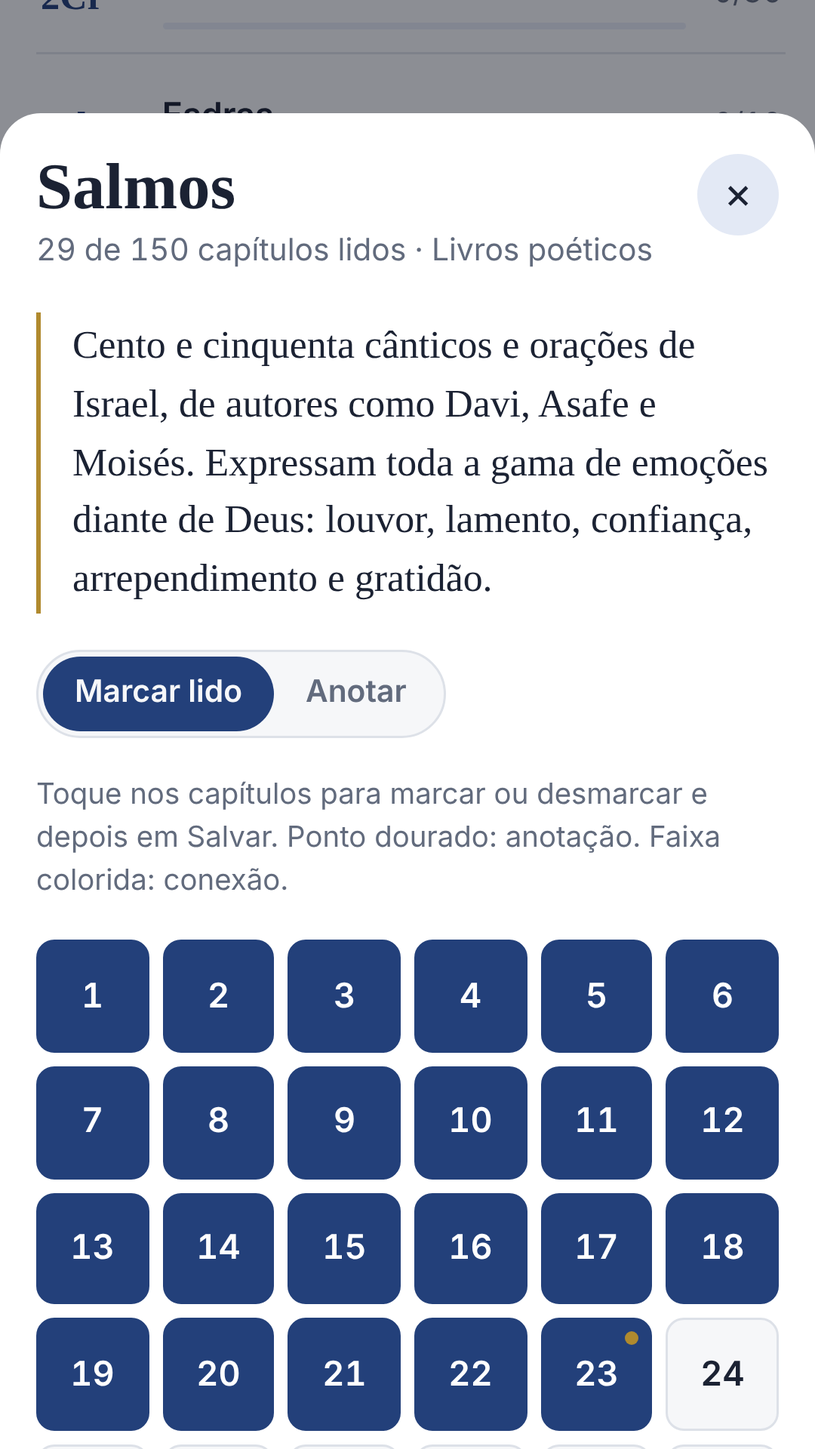
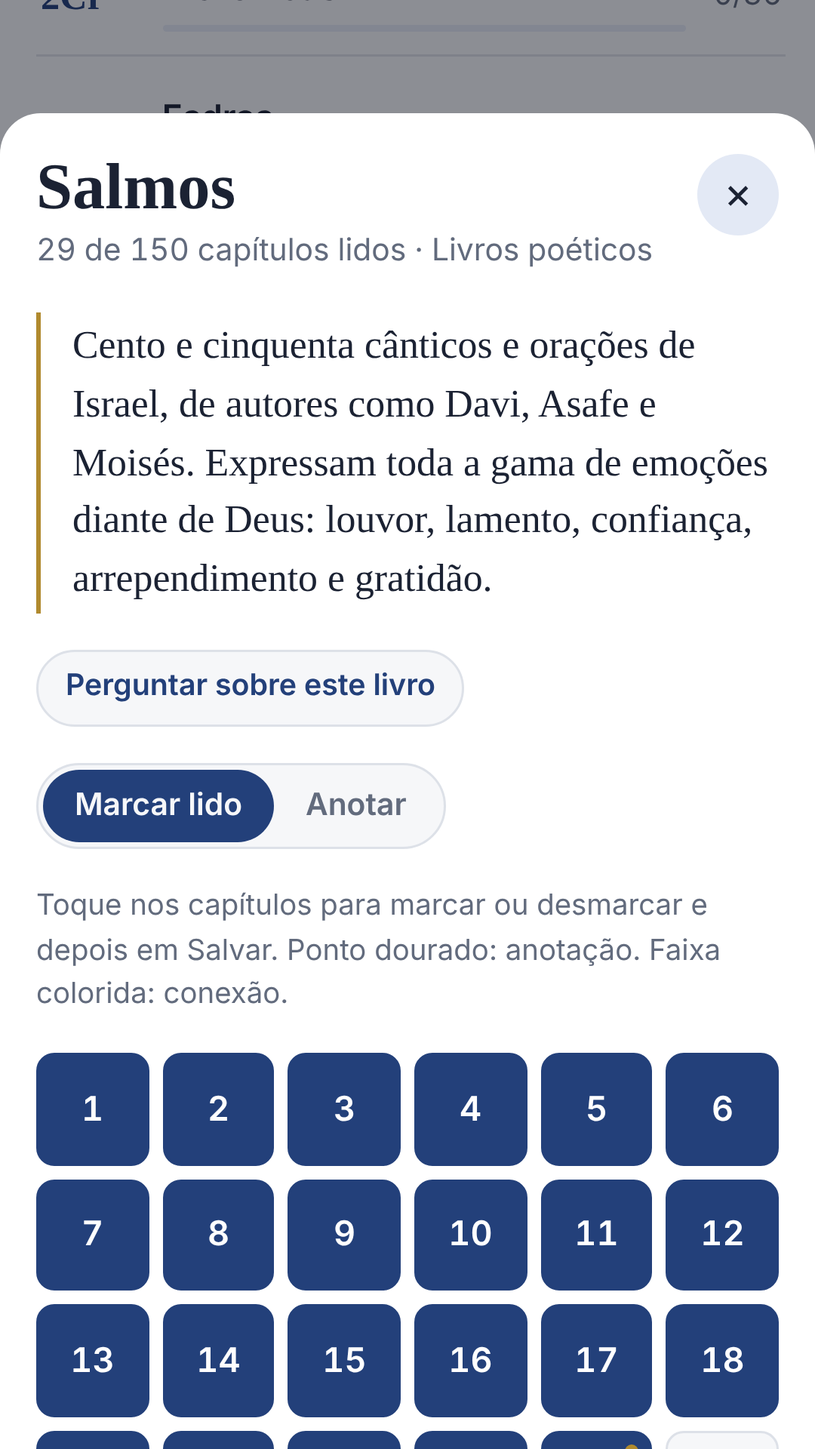
Transforma o chat em painel lateral
- painel desliza da direita no celular e fica fixo ao lado em telas largas
- botão Perguntar no topo e botão flutuante ao rolar a página
- voltar do Android e Esc fecham o painel; estado lembrado no computador
- capturas da loja atualizadas, com a tela de perguntas

Claude-Session: https://claude.ai/code/session_01VvamT29ETSLQX3xUBCzeSM

Changed region(s): [[0.0306, 0.4375, 0.9778, 1.0]]

diff --git a/index.html b/index.html
@@ -179,7 +179,6 @@ header { display: grid; gap: 6px; }
 .sr { position: absolute; width: 1px; height: 1px; overflow: hidden; clip: rect(0 0 0 0); white-space: nowrap; }
 .ask { justify-self: start; display: inline-flex; align-items: center; gap: 6px; color: var(--accent); }
 .ask .ic { width: 16px; height: 16px; }
-.chat { display: grid; gap: 12px; padding-top: 10px; }
 .chat-note { margin: 0; font-size: .8rem; color: var(--muted); background: var(--surface); border: 1px solid var(--line); border-radius: 10px; padding: 10px 12px; }
 .chat-log { display: grid; gap: 12px; }
 .chat-empty { display: grid; justify-items: center; text-align: center; gap: 10px; padding: 14px 4px 4px; color: var(--muted); }
@@ -207,12 +206,42 @@ header { display: grid; gap: 6px; }
 .report { display: grid; gap: 8px; border: 1px dashed var(--line); border-radius: 10px; padding: 10px; }
 .report select { border: 1px solid var(--line); border-radius: 8px; padding: 8px; background: var(--surface); color: var(--ink); font: inherit; }
 .chat-ctx { display: flex; justify-content: space-between; align-items: center; gap: 10px; font-size: .82rem; color: var(--muted); background: var(--accent-soft); border-radius: 8px; padding: 6px 10px; }
-.chat-form { display: grid; grid-template-columns: 1fr auto; gap: 8px; align-items: end; position: sticky; bottom: 0; background: var(--bg); padding: 8px 0 calc(8px + env(safe-area-inset-bottom, 0px)); }
+.chat-form { display: grid; grid-template-columns: 1fr auto; gap: 8px; align-items: end; }
 .chat-form textarea { width: 100%; box-sizing: border-box; resize: none; min-height: 48px; max-height: 160px; border: 1px solid var(--line); border-radius: 12px; padding: 12px; background: var(--surface); color: var(--ink); font: inherit; line-height: 1.4; }
 .chat-form textarea:focus { outline: 2px solid var(--accent); outline-offset: 0; border-color: transparent; }
 .chat-form .btn { height: 48px; }
 .chat-form .btn:disabled { opacity: .5; }
 .chat-foot { display: flex; justify-content: space-between; align-items: center; gap: 10px; font-size: .78rem; color: var(--muted); min-height: 1.2em; }
+/* Painel lateral do chat: gaveta por cima no celular, fixo ao lado em telas largas */
+.wrap { padding-bottom: 96px; }
+.chat-fab { position: fixed; right: calc(16px + env(safe-area-inset-right, 0px)); bottom: calc(16px + env(safe-area-inset-bottom, 0px)); z-index: 15; display: inline-flex; align-items: center; gap: 8px; background: var(--accent); color: var(--bg); border: 0; border-radius: 999px; padding: 12px 20px 12px 16px; font-weight: 700; font-size: .95rem; box-shadow: 0 8px 22px rgb(10 14 24 / .28); }
+.chat-fab .ic { width: 22px; height: 22px; }
+html.chat-open .chat-fab, .chat-fab.away { display: none; }
+.chat-top { display: inline-flex; align-items: center; gap: 6px; border: 1px solid var(--accent); background: var(--surface); color: var(--accent); border-radius: 999px; padding: 6px 14px 6px 10px; font-size: .82rem; font-weight: 700; }
+.chat-top .ic { width: 18px; height: 18px; }
+@media (max-width: 599px) {
+  .chat-fab { width: 56px; height: 56px; padding: 0; justify-content: center; }
+  .chat-fab span { display: none; }
+  .chat-fab .ic { width: 26px; height: 26px; }
+}
+.chat-scrim { position: fixed; inset: 0; background: rgb(10 14 24 / .45); z-index: 29; }
+.chat-panel { position: fixed; top: 0; right: 0; bottom: 0; width: 100%; max-width: 440px; z-index: 30; display: flex; flex-direction: column; background: var(--bg); border-left: 1px solid var(--line); box-shadow: -14px 0 36px rgb(10 14 24 / .2); transform: translateX(100%); visibility: hidden; transition: transform .26s ease, visibility 0s linear .26s; padding-top: env(safe-area-inset-top, 0px); padding-right: env(safe-area-inset-right, 0px); }
+html.chat-open .chat-panel { transform: none; visibility: visible; transition: transform .26s ease, visibility 0s; }
+.chat-head { display: flex; justify-content: space-between; align-items: center; gap: 12px; padding: 12px 16px; border-bottom: 1px solid var(--line); background: var(--surface); }
+.chat-title { display: flex; align-items: center; gap: 10px; min-width: 0; }
+.chat-title .ic { width: 30px; height: 30px; color: var(--gilt); stroke-width: 1.4; }
+.chat-title h2 { font-size: 1.35rem; line-height: 1.1; }
+.chat-title p { margin: 2px 0 0; font-size: .78rem; color: var(--muted); }
+.chat-body { flex: 1; min-height: 0; overflow-y: auto; overscroll-behavior: contain; padding: 14px 16px; display: grid; align-content: start; gap: 12px; }
+.chat-dock { display: grid; gap: 8px; border-top: 1px solid var(--line); background: var(--surface); padding: 10px 16px calc(10px + env(safe-area-inset-bottom, 0px)); }
+html.chat-lock, html.chat-lock body { overflow: hidden; }
+@media (min-width: 1100px) {
+  html.chat-open body { padding-right: 440px; }
+  html.chat-open .chat-panel { box-shadow: none; }
+  html.chat-open .sheet, html.chat-open .sheet-bg { right: 440px; }
+  .chat-scrim { display: none !important; }
+}
+@media (prefers-reduced-motion: reduce) { .chat-panel, html.chat-open .chat-panel { transition: none; } }
 .notes { display: grid; gap: 0; }
 .notes h4 { margin: 0; font-size: .74rem; letter-spacing: .12em; text-transform: uppercase; color: var(--muted); padding: 6px 0; }
 .note-item { display: grid; gap: 3px; text-align: left; width: 100%; background: none; border: 0; border-bottom: 1px solid var(--line); padding: 10px 2px; }
@@ -240,6 +269,7 @@ header { display: grid; gap: 6px; }
         <button type="button" data-t="light" id="thLight">Claro</button>
         <button type="button" data-t="dark" id="thDark">Escuro</button>
       </div>
+      <button class="chat-top" id="chatTop" type="button" aria-controls="chatPanel"><span>Perguntar</span></button>
     </div>
     <h1>Diário de Leitura Bíblica</h1>
     <div class="status" id="status">Progresso salvo neste celular</div>
@@ -277,7 +307,6 @@ header { display: grid; gap: 6px; }
     <button role="tab" id="tabAT" aria-selected="true" type="button">Antigo Testamento</button>
     <button role="tab" id="tabNT" aria-selected="false" type="button">Novo Testamento</button>
     <button role="tab" id="tabNotes" aria-selected="false" type="button">Anotações</button>
-    <button role="tab" id="tabChat" aria-selected="false" type="button">Perguntas</button>
   </nav>
   <div class="order" id="orderBar">
     <span>Ordem dos livros</span>
@@ -288,17 +317,6 @@ header { display: grid; gap: 6px; }
   </div>
   <p class="hint" id="orderNote" hidden>Ordem cronológica aproximada, pela época dos acontecimentos e da escrita. As datas de alguns livros são debatidas. O botão "Próximo capítulo" passa a seguir esta ordem.</p>
   <div id="books" style="display:grid;gap:8px"></div>
-  <section class="chat" id="chat" hidden aria-label="Perguntas sobre a Bíblia">
-    <p class="chat-note">Respostas geradas por inteligência artificial, com base na teologia evangélica. Podem conter erros: confira sempre na Bíblia e converse com seu pastor.</p>
-    <div class="chat-log" id="chatLog" aria-live="polite"></div>
-    <div class="chat-ctx" id="chatCtx" hidden><span id="chatCtxTxt"></span><button class="link-x" id="chatCtxX" type="button">Remover</button></div>
-    <form class="chat-form" id="chatForm" novalidate>
-      <label for="chatInput" class="sr">Sua pergunta</label>
-      <textarea id="chatInput" rows="2" maxlength="1500" placeholder="Escreva sua dúvida sobre a Bíblia ou a fé cristã"></textarea>
-      <button class="btn" id="chatSend" type="submit">Enviar</button>
-    </form>
-    <div class="chat-foot"><span id="chatInfo"></span><button class="link-x" id="chatClear" type="button" hidden>Limpar conversa</button></div>
-  </section>
   <div class="ornament" aria-hidden="true"><i></i><svg class="ic" viewBox="0 0 24 24" aria-hidden="true"><path d="M12 2.5v19 M6.5 8h11"/></svg><i></i></div>
   <section class="backup">
     <h3>Backup</h3>
@@ -312,6 +330,27 @@ header { display: grid; gap: 6px; }
   </section>
 </div>
 
+<button class="chat-fab" id="chatFab" type="button" aria-controls="chatPanel" aria-expanded="false" aria-label="Perguntas sobre a Bíblia" title="Perguntas sobre a Bíblia"><span>Perguntar</span></button>
+<div class="chat-scrim" id="chatScrim" hidden></div>
+<aside class="chat-panel" id="chatPanel" aria-label="Perguntas sobre a Bíblia" aria-hidden="true" inert>
+  <header class="chat-head">
+    <div class="chat-title" id="chatTitle"><div><h2 id="chatH">Perguntas</h2><p>Dúvidas sobre a Bíblia e a fé cristã</p></div></div>
+    <button class="close" id="chatClose" type="button" aria-label="Fechar perguntas">×</button>
+  </header>
+  <div class="chat-body" id="chatBody">
+    <p class="chat-note">Respostas geradas por inteligência artificial, com base na teologia evangélica. Podem conter erros: confira sempre na Bíblia e converse com seu pastor.</p>
+    <div class="chat-log" id="chatLog" aria-live="polite"></div>
+  </div>
+  <div class="chat-dock">
+    <div class="chat-ctx" id="chatCtx" hidden><span id="chatCtxTxt"></span><button class="link-x" id="chatCtxX" type="button">Remover</button></div>
+    <form class="chat-form" id="chatForm" novalidate>
+      <label for="chatInput" class="sr">Sua pergunta</label>
+      <textarea id="chatInput" rows="2" maxlength="1500" placeholder="Escreva sua dúvida sobre a Bíblia ou a fé cristã"></textarea>
+      <button class="btn" id="chatSend" type="submit">Enviar</button>
+    </form>
+    <div class="chat-foot"><span id="chatInfo"></span><button class="link-x" id="chatClear" type="button" hidden>Limpar conversa</button></div>
+  </div>
+</aside>
 <div class="sheet-bg" id="sheetBg" hidden></div>
 <div class="sheet" id="sheet" role="dialog" aria-modal="true" aria-labelledby="sheetTitle" hidden>
   <div class="sheet-in">
@@ -523,8 +562,7 @@ function render(){
 
   // livros
   const box = document.getElementById("books"); box.innerHTML = "";
-  if (tab === "CHAT") {}
-  else if (tab === "NOTAS") renderAllNotes(box);
+  if (tab === "NOTAS") renderAllNotes(box);
   else for (const [g, ids] of sections(tab)) {
     const sec = document.createElement("div"); sec.className = "section";
     const h = document.createElement("h3"); h.innerHTML = icon(SECTION_ICON[g] || "cross"); h.append(g); sec.appendChild(h);
@@ -544,11 +582,8 @@ function render(){
   document.getElementById("tabAT").setAttribute("aria-selected", tab === "AT");
   document.getElementById("tabNT").setAttribute("aria-selected", tab === "NT");
   document.getElementById("tabNotes").setAttribute("aria-selected", tab === "NOTAS");
-  document.getElementById("tabChat").setAttribute("aria-selected", tab === "CHAT");
-  document.getElementById("orderBar").hidden = tab === "NOTAS" || tab === "CHAT";
-  document.getElementById("orderNote").hidden = tab === "NOTAS" || tab === "CHAT" || order !== "chrono";
-  document.getElementById("books").hidden = tab === "CHAT";
-  document.getElementById("chat").hidden = tab !== "CHAT";
+  document.getElementById("orderBar").hidden = tab === "NOTAS";
+  document.getElementById("orderNote").hidden = tab === "NOTAS" || order !== "chrono";
   document.getElementById("ordBible").setAttribute("aria-pressed", order === "bible");
   document.getElementById("ordChrono").setAttribute("aria-pressed", order === "chrono");
   if (openId) renderSheet();
@@ -752,7 +787,11 @@ function closeSheet(){ if (guardDraft()) return; flushNote(); openId = null; sel
 const sheet = document.getElementById("sheet"), sheetBg = document.getElementById("sheetBg");
 document.getElementById("closeBtn").onclick = closeSheet;
 sheetBg.onclick = closeSheet;
-document.addEventListener("keydown", e => { if (e.key === "Escape" && openId) closeSheet(); });
+document.addEventListener("keydown", e => {
+  if (e.key !== "Escape") return;
+  if (typeof chatOpen !== "undefined" && chatOpen && !isDocked()) closeChat();
+  else if (openId) closeSheet();
+});
 document.getElementById("allBtn").onclick = () => setDraft(new Set(Array.from({ length: BY[openId].ch }, (_, i) => i + 1)));
 document.getElementById("clearBtn").onclick = () => setDraft(new Set());
 document.getElementById("saveBtn").onclick = saveDraft;
@@ -779,7 +818,6 @@ const setOrder = o => { order = o; try { localStorage.setItem("leitura-biblica-o
 document.getElementById("ordBible").onclick = () => setOrder("bible");
 document.getElementById("ordChrono").onclick = () => setOrder("chrono");
 document.getElementById("tabNotes").onclick = () => { tab = "NOTAS"; render(); };
-document.getElementById("tabChat").onclick = () => { tab = "CHAT"; render(); renderChat(); };
 
 // ===== Perguntas (chat com IA) =====
 // Endereço do servidor do chat (Cloudflare Worker). Vazio = chat ainda não ligado.
@@ -860,7 +898,7 @@ function reportForm(i){
   };
   return f;
 }
-function scrollChatEnd(){ const f = document.getElementById("chatForm"); f.scrollIntoView({ block: "end", behavior: matchMedia("(prefers-reduced-motion: reduce)").matches ? "auto" : "smooth" }); }
+function scrollChatEnd(){ const b = document.getElementById("chatBody"); b.scrollTo({ top: b.scrollHeight, behavior: matchMedia("(prefers-reduced-motion: reduce)").matches ? "auto" : "smooth" }); }
 async function askAI(){
   if (!CHAT_URL) { chatErr = { msg: "O chat ainda não foi ligado ao servidor. Assim que for configurado, as respostas aparecem aqui.", retry: false }; renderChat(); return; }
   if (!navigator.onLine) { chatErr = { msg: "Sem internet. As perguntas precisam de conexão para serem respondidas.", retry: true }; renderChat(); return; }
@@ -891,11 +929,58 @@ document.getElementById("chatCtxX").onclick = () => { chat.ctx = ""; saveChat();
 document.getElementById("askBook").onclick = () => {
   const b = BY[openId]; if (!b) return;
   if (guardDraft()) return;
-  closeSheet(); chat.ctx = `o livro de ${b.name}`; saveChat();
-  tab = "CHAT"; render(); renderChat();
+  if (!isDocked()) closeSheet();
+  chat.ctx = `o livro de ${b.name}`; saveChat();
+  openChat(false);
   const inp = document.getElementById("chatInput"); inp.value = `Qual é a mensagem principal de ${b.name} e como ela aponta para Cristo?`; inp.focus();
-  document.getElementById("chatForm").scrollIntoView({ block: "end" });
 };
+
+// abrir e fechar o painel lateral
+const PANEL_KEY = "leitura-biblica-chat-painel";
+const dockMq = matchMedia("(min-width: 1100px)");
+const isDocked = () => dockMq.matches;
+let chatOpen = false;
+ICONS.chat = "M4.5 4.5h15a1.5 1.5 0 0 1 1.5 1.5v9a1.5 1.5 0 0 1-1.5 1.5H10l-4.5 3.5V16.5h-1A1.5 1.5 0 0 1 3 15V6a1.5 1.5 0 0 1 1.5-1.5z M12 7v7 M9.5 9.5h5";
+document.getElementById("chatFab").insertAdjacentHTML("afterbegin", icon("chat"));
+document.getElementById("chatTop").insertAdjacentHTML("afterbegin", icon("chat"));
+document.getElementById("chatTop").onclick = () => openChat();
+// o botão flutuante só aparece quando o botão do topo sai da tela
+(() => {
+  const fab = document.getElementById("chatFab");
+  fab.classList.add("away");
+  if (!("IntersectionObserver" in window)) { fab.classList.remove("away"); return; }
+  new IntersectionObserver(([e]) => fab.classList.toggle("away", e.isIntersecting)).observe(document.getElementById("chatTop"));
+})();
+document.getElementById("chatTitle").insertAdjacentHTML("afterbegin", icon("dove"));
+function setChatOpen(open){
+  chatOpen = open;
+  const root = document.documentElement, panel = document.getElementById("chatPanel");
+  root.classList.toggle("chat-open", open);
+  root.classList.toggle("chat-lock", open && !isDocked());
+  panel.inert = !open; panel.setAttribute("aria-hidden", String(!open));
+  document.getElementById("chatScrim").hidden = !(open && !isDocked());
+  document.getElementById("chatFab").setAttribute("aria-expanded", String(open));
+  if (isDocked()) { try { localStorage.setItem(PANEL_KEY, open ? "1" : "0"); } catch(e) {} }
+}
+function openChat(focus = true){
+  if (chatOpen) { renderChat(); return; }
+  setChatOpen(true); renderChat();
+  const b = document.getElementById("chatBody"); b.scrollTop = b.scrollHeight;
+  if (!isDocked()) { try { history.pushState({ chat: 1 }, ""); } catch(e) {} }
+  if (focus) (isDocked() ? document.getElementById("chatInput") : document.getElementById("chatClose")).focus();
+}
+function closeChat(){
+  if (!chatOpen) return;
+  setChatOpen(false);
+  if (history.state && history.state.chat) { try { history.back(); } catch(e) {} }
+  document.getElementById("chatFab").focus();
+}
+addEventListener("popstate", () => { if (chatOpen && !isDocked()) setChatOpen(false); });
+dockMq.addEventListener("change", () => { if (chatOpen) setChatOpen(true); });
+document.getElementById("chatFab").onclick = () => openChat();
+document.getElementById("chatClose").onclick = closeChat;
+document.getElementById("chatScrim").onclick = closeChat;
+try { if (isDocked() && localStorage.getItem(PANEL_KEY) === "1") openChat(false); } catch(e) {}
 document.getElementById("modeRead").onclick = () => { flushNote(); mode = "read"; renderSheet(); };
 document.getElementById("modeNote").onclick = () => { mode = "note"; renderSheet(); };
 document.getElementById("edText").addEventListener("input", () => {

diff --git a/privacidade.html b/privacidade.html
@@ -41,9 +41,9 @@ footer { margin-top: 40px; padding-top: 16px; border-top: 1px solid var(--line);
   <a class="back" href="./">← Voltar ao app</a>
   <p class="eyebrow">Leitura Bíblica</p>
   <h1>Política de Privacidade</h1>
-  <p class="updated">Última atualização: 21 de outubro de 2026 (inclui a aba "Perguntas")</p>
+  <p class="updated">Última atualização: 21 de outubro de 2026 (inclui o painel "Perguntas")</p>
 
-  <p class="summary"><strong>Resumo:</strong> o Leitura Bíblica não tem contas nem cadastro e não coleta dados pessoais. Seu progresso, suas anotações e suas conexões ficam guardados apenas no seu aparelho. A única exceção é a aba "Perguntas": o texto das perguntas que você fizer lá é enviado a um serviço de inteligência artificial para ser respondido, sem identificar você.</p>
+  <p class="summary"><strong>Resumo:</strong> o Leitura Bíblica não tem contas nem cadastro e não coleta dados pessoais. Seu progresso, suas anotações e suas conexões ficam guardados apenas no seu aparelho. A única exceção é o painel "Perguntas": o texto das perguntas que você fizer lá é enviado a um serviço de inteligência artificial para ser respondido, sem identificar você.</p>
 
   <h2>Quais informações o app guarda</h2>
   <p>Para funcionar, o app guarda no próprio aparelho:</p>
@@ -51,7 +51,7 @@ footer { margin-top: 40px; padding-top: 16px; border-top: 1px solid var(--line);
     <li>os capítulos que você marcou como lidos e as datas de leitura;</li>
     <li>as anotações que você escreve em cada capítulo;</li>
     <li>as conexões que você cria entre passagens bíblicas;</li>
-    <li>a conversa da aba "Perguntas";</li>
+    <li>a conversa do painel "Perguntas";</li>
     <li>suas preferências, como o tema claro ou escuro e a ordem dos livros.</li>
   </ul>
   <p>Essas informações ficam no armazenamento local do navegador ou do app no seu aparelho. Nós não temos acesso a elas.</p>
@@ -60,14 +60,14 @@ footer { margin-top: 40px; padding-top: 16px; border-top: 1px solid var(--line);
   <ul>
     <li>Não pedimos nome, e-mail, telefone ou qualquer cadastro.</li>
     <li>Não coletamos nem enviamos seus dados de leitura, anotações ou conexões para servidores.</li>
-    <li>Não guardamos as conversas da aba "Perguntas" em servidores.</li>
+    <li>Não guardamos as conversas do painel "Perguntas" em servidores.</li>
     <li>Não usamos publicidade, ferramentas de análise (analytics) ou rastreamento.</li>
     <li>Não vendemos nem compartilhamos dados com terceiros.</li>
     <li>Não pedimos acesso a câmera, localização, contatos ou outras permissões do aparelho.</li>
   </ul>
 
-  <h2>Aba "Perguntas" (inteligência artificial)</h2>
-  <p>A aba "Perguntas" responde dúvidas sobre a Bíblia usando inteligência artificial. Quando você envia uma pergunta:</p>
+  <h2>Painel "Perguntas" (inteligência artificial)</h2>
+  <p>O painel "Perguntas" responde dúvidas sobre a Bíblia usando inteligência artificial. Quando você envia uma pergunta:</p>
   <ul>
     <li>o texto da pergunta e das mensagens anteriores da mesma conversa é enviado, por conexão segura (HTTPS), a um servidor do app hospedado na Cloudflare, que o repassa ao Claude, serviço de inteligência artificial da Anthropic, para gerar a resposta;</li>
     <li>se você perguntou a partir de um livro, o nome do livro também é enviado;</li>
@@ -83,7 +83,7 @@ footer { margin-top: 40px; padding-top: 16px; border-top: 1px solid var(--line);
   <p>O botão "Salvar backup" gera um arquivo no seu próprio aparelho, normalmente na pasta Downloads. Esse arquivo só sai do aparelho se você mesmo decidir enviá-lo ou copiá-lo para outro lugar. "Restaurar backup" lê um arquivo que você escolhe, sem enviar nada pela internet.</p>
 
   <h2>Conexões de internet</h2>
-  <p>O app funciona offline, exceto a aba "Perguntas". Fora dela, a internet é usada apenas para baixar e atualizar os arquivos do próprio app, hospedados no GitHub Pages, e as fontes de texto, servidas pelo Google Fonts. Como acontece em qualquer site, esses serviços podem registrar dados técnicos de acesso, como endereço IP e tipo de navegador, de acordo com as políticas de privacidade deles:</p>
+  <p>O app funciona offline, exceto o painel "Perguntas". Fora dele, a internet é usada apenas para baixar e atualizar os arquivos do próprio app, hospedados no GitHub Pages, e as fontes de texto, servidas pelo Google Fonts. Como acontece em qualquer site, esses serviços podem registrar dados técnicos de acesso, como endereço IP e tipo de navegador, de acordo com as políticas de privacidade deles:</p>
   <ul>
     <li><a href="https://docs.github.com/pt/site-policy/privacy-policies/github-general-privacy-statement" rel="noopener">Declaração de privacidade do GitHub</a></li>
     <li><a href="https://policies.google.com/privacy?hl=pt-BR" rel="noopener">Política de privacidade do Google</a></li>
@@ -96,7 +96,7 @@ footer { margin-top: 40px; padding-top: 16px; border-top: 1px solid var(--line);
   <p>Como os dados ficam só no aparelho, você pode apagá-los a qualquer momento desinstalando o app ou limpando os dados dele nas configurações do Android (Configurações → Apps → Leitura Bíblica → Armazenamento → Limpar dados). Se ainda quiser guardar seu progresso, salve um backup antes.</p>
 
   <h2>Crianças</h2>
-  <p>O app não pede dados pessoais de ninguém, inclusive de crianças. Recomendamos que crianças usem a aba "Perguntas" com o acompanhamento de um adulto.</p>
+  <p>O app não pede dados pessoais de ninguém, inclusive de crianças. Recomendamos que crianças usem o painel "Perguntas" com o acompanhamento de um adulto.</p>
 
   <h2>Alterações nesta política</h2>
   <p>Se esta política mudar, a nova versão será publicada nesta mesma página, com a data de atualização revisada.</p>

diff --git a/sw.js b/sw.js
@@ -2,7 +2,7 @@
    Guarda os arquivos do app para uso offline. Não mexe no progresso:
    marcações, anotações e conexões ficam no localStorage do aparelho,
    que o service worker não lê nem apaga. */
-const VERSION = "v13";
+const VERSION = "v14";
 const APP_CACHE = "leitura-biblica-app-" + VERSION;
 const FONT_CACHE = "leitura-biblica-fontes";
 const APP_FILES = [

diff --git a/PLAYSTORE.md b/PLAYSTORE.md
@@ -49,13 +49,13 @@ O Leitura Bíblica é um diário de leitura simples e bonito para quem quer ler 
 • Um pequeno resumo do assunto de cada livro ajuda a contextualizar a leitura.
 
 💬 TIRE SUAS DÚVIDAS
-• Aba "Perguntas": pergunte sobre a Bíblia e a fé cristã e receba respostas de uma inteligência artificial, com base na teologia evangélica e com as referências bíblicas.
+• Painel "Perguntas", aberto pelo botão no topo: pergunte sobre a Bíblia e a fé cristã e receba respostas de uma inteligência artificial, com base na teologia evangélica e com as referências bíblicas.
 • Pergunte direto de um livro para entender a mensagem dele.
 • As respostas são geradas por IA e podem conter erros: confira na Bíblia e converse com seu pastor.
 
 🔒 PRIVADO E OFFLINE
 • Sem cadastro, sem anúncios e sem rastreamento.
-• Seu progresso, suas anotações e suas conexões ficam somente no seu celular. Só as perguntas que você faz na aba "Perguntas" são enviadas para serem respondidas pela IA, sem identificar você.
+• Seu progresso, suas anotações e suas conexões ficam somente no seu celular. Só as perguntas que você faz no painel "Perguntas" são enviadas para serem respondidas pela IA, sem identificar você.
 • Funciona sem internet.
 • Salve um arquivo de backup e restaure quando trocar de aparelho.
 
@@ -81,7 +81,7 @@ Observação: o app não traz o texto bíblico. Use-o junto com a sua Bíblia pr
 |---|---|
 | Ícone 512×512 | `loja/icone-512.png` |
 | Gráfico de destaque 1024×500 | `loja/feature-graphic-1024x500.png` |
-| Capturas de tela do celular (mínimo 2) | `screenshots/painel.png`, `screenshots/livro.png`, `screenshots/conexoes.png` (1080×1920) |
+| Capturas de tela do celular (mínimo 2) | `screenshots/painel.png`, `screenshots/livro.png`, `screenshots/conexoes.png`, `screenshots/perguntas.png` (1080×1920) |
 
 As capturas usam dados de exemplo. Se preferir, tire capturas no seu próprio celular, que já mostram as fontes exatamente como no app.
 
@@ -153,7 +153,7 @@ Alternativa: usar um domínio próprio (ex.: `leiturabiblica.com.br`) no GitHub 
    - **Política de privacidade:** `https://guilhermeldps-debug.github.io/Leitura-biblica/privacidade.html`
    - **Anúncios:** não contém anúncios.
    - **Acesso ao app:** todo o app está disponível sem login.
-   - **Segurança dos dados:** progresso, anotações e conexões ficam só no aparelho e não são coletados. A aba **Perguntas** envia o texto das perguntas a um servidor para gerar a resposta, então declare:
+   - **Segurança dos dados:** progresso, anotações e conexões ficam só no aparelho e não são coletados. O painel **Perguntas** envia o texto das perguntas a um servidor para gerar a resposta, então declare:
      - **Coleta de dados: Sim** → tipo **Atividade no app → Outros conteúdos gerados pelo usuário**.
      - **Uso:** Funcionalidade do app. **Opcional** (o usuário escolhe se quer usar o chat). **Processado de forma temporária**: as conversas não são guardadas; só respostas denunciadas ficam 90 dias para revisão.
      - **Compartilhamento: Não** (Cloudflare e Anthropic atuam como prestadores de serviço, que o Google não considera compartilhamento).

diff --git a/worker/README.md b/worker/README.md
@@ -1,6 +1,6 @@
-# Servidor do chat (aba "Perguntas")
+# Servidor do chat (painel "Perguntas")
 
-A aba **Perguntas** do app envia as dúvidas para este pequeno servidor, que roda de graça na Cloudflare. Ele guarda a sua chave da API do Claude em segredo, conversa com a IA e devolve a resposta ao app. A chave nunca fica no código do app, que é público.
+O painel **Perguntas** do app envia as dúvidas para este pequeno servidor, que roda de graça na Cloudflare. Ele guarda a sua chave da API do Claude em segredo, conversa com a IA e devolve a resposta ao app. A chave nunca fica no código do app, que é público.
 
 Tudo pode ser feito pelo navegador, inclusive no celular. Leva uns 15 minutos.
 
@@ -73,7 +73,7 @@ passa a ser
 const CHAT_URL = "https://leitura-biblica-chat.SEU-USUARIO.workers.dev";
 ```
 
-Depois do envio ao GitHub, a aba **Perguntas** começa a responder em poucos minutos, inclusive no app instalado e na versão da Play Store.
+Depois do envio ao GitHub, o painel **Perguntas** começa a responder em poucos minutos, inclusive no app instalado e na versão da Play Store.
 
 ---
 
